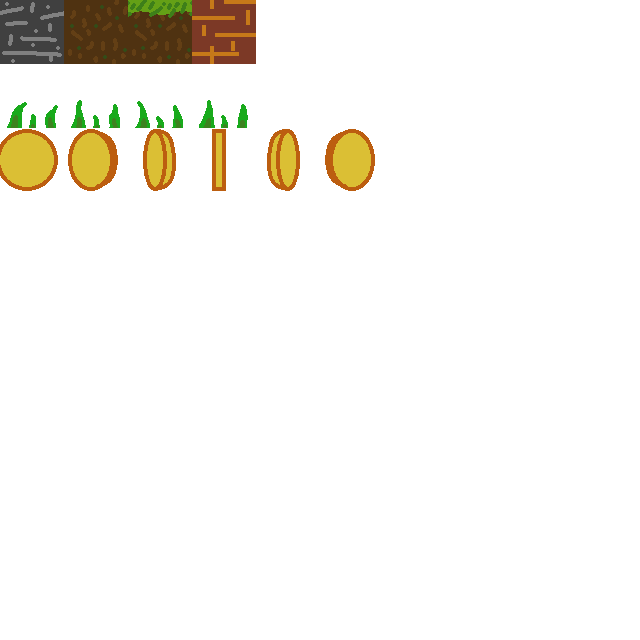
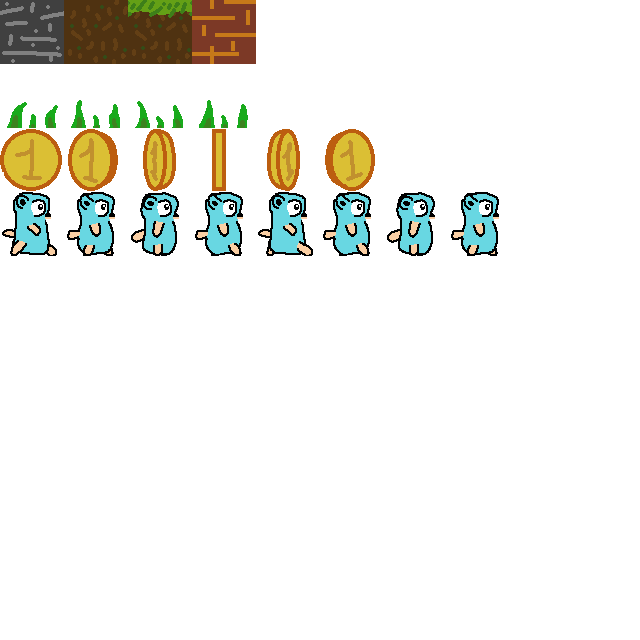
Some dynamics and controls

Changed region(s): [[0.0, 0.1875, 0.7812, 0.4062]]

diff --git a/graphic/window.go b/graphic/window.go
@@ -1,16 +1,16 @@
 package graphic
 
 import (
-	"fmt"
 	"gopherLand/game"
 	"image"
 	"log"
+	"math"
 
 	"github.com/hajimehoshi/ebiten/v2"
 	"github.com/hajimehoshi/ebiten/v2/ebitenutil"
 )
 
-type Controler struct {
+type Controller struct {
 	game      *game.Game
 	tick      uint64 // Ticks of the game
 	tickFrame uint8  // Increments each frame, go back to 0 each tick
@@ -19,9 +19,9 @@ type Controler struct {
 var backgroundImage *ebiten.Image
 var ressourcesImage *ebiten.Image
 
-func initControler() Controler {
+func initControler() Controller {
 	g := game.InitGame()
-	return Controler{&g, 0, 0}
+	return Controller{&g, 0, 0}
 }
 
 func init() {
@@ -36,34 +36,88 @@ func init() {
 	}
 }
 
-func (c *Controler) Update() error {
+func (c Controller) getModulo(elem game.Elem) int {
+	max := len(elem.Images)
+	modulo := 0
+	if max > 1 {
+		modulo = int(c.tick) % max
+	}
+	return modulo
+}
+
+func (c Controller) checkEmptyBlock(direction string) bool {
+	switch direction {
+	case "left":
+		x := int(c.game.Player.X)
+		y := int(math.Ceil(c.game.Player.Y))
+		if y > 0 {
+			return !c.game.AllElements[c.game.GameMap[x][y-1]].Solid
+		}
+	case "right":
+		x := int(c.game.Player.X)
+		y := int(c.game.Player.Y)
+		if y < game.MapSizeWidth {
+			return !c.game.AllElements[c.game.GameMap[x][y+1]].Solid
+		}
+	case "up":
+		x := int(math.Ceil(c.game.Player.X))
+		y := int(c.game.Player.Y)
+		if x > 0 {
+			return !c.game.AllElements[c.game.GameMap[x-1][y]].Solid
+		}
+	case "down":
+		x := int(c.game.Player.X)
+		y := int(c.game.Player.Y)
+		if x < game.MapSizeWidth {
+			return !c.game.AllElements[c.game.GameMap[x+1][y]].Solid
+		}
+	}
+	return false
+}
+
+func (c *Controller) Update() error {
+	// Tick management (each 12 frames = 200 ms)
 	if c.tickFrame == 12 {
 		c.tickFrame = 0
 		c.tick++
 	} else {
 		c.tickFrame++
 	}
+
+	// Control management
 	// x, y := ebiten.CursorPosition()
 	// fmt.Println(x, y)
-	if ebiten.IsKeyPressed(ebiten.KeyArrowRight) {
-		fmt.Println("Droite")
+	if ebiten.IsKeyPressed(ebiten.KeyArrowLeft) {
+		c.game.Player.Direction = 'l'
+		if c.checkEmptyBlock("left") {
+			c.game.Player.Y -= c.game.Player.Speed
+		}
 	}
+	if ebiten.IsKeyPressed(ebiten.KeyArrowRight) {
+		c.game.Player.Direction = 'r'
+		if c.checkEmptyBlock("right") {
+			c.game.Player.Y += c.game.Player.Speed
+		}
+	}
+
+	// Player gravity
+	if c.checkEmptyBlock("down") {
+		c.game.Player.X += 0.1
+	}
+
 	return nil
 }
 
-func (c *Controler) Draw(screen *ebiten.Image) {
+func (c *Controller) Draw(screen *ebiten.Image) {
 	screen.DrawImage(backgroundImage, nil)
 
+	// For each block (Elem)
 	for y := 0; y < len(c.game.GameMap); y++ {
 		for x := 0; x < len(c.game.GameMap[y]); x++ {
 
 			elem := c.game.AllElements[c.game.GameMap[x][y]]
 
-			max := len(elem.Images)
-			modulo := 0
-			if max > 1 {
-				modulo = int(c.tick) % max
-			}
+			modulo := c.getModulo(elem)
 
 			if len(elem.Images) > 0 {
 				op := &ebiten.DrawImageOptions{}
@@ -74,9 +128,23 @@ func (c *Controler) Draw(screen *ebiten.Image) {
 			}
 		}
 	}
+
+	// Player display
+	modulo := c.getModulo(c.game.AllElements['p'])
+
+	op := &ebiten.DrawImageOptions{}
+	if c.game.Player.Direction == 'l' {
+		// Mirroring image
+		op.GeoM.Scale(-1, 1)
+		op.GeoM.Translate(float64(c.game.Ss), 0)
+	}
+	op.GeoM.Translate(c.game.Player.Y*float64(c.game.Ss), c.game.Player.X*float64(c.game.Ss))
+	screen.DrawImage(ressourcesImage.SubImage(
+		image.Rect(c.game.AllElements['p'].Images[modulo].X1, c.game.AllElements['p'].Images[modulo].Y1,
+			c.game.AllElements['p'].Images[modulo].X2, c.game.AllElements['p'].Images[modulo].Y2)).(*ebiten.Image), op)
 }
 
-func (c *Controler) Layout(outsideWidth, outsideHeight int) (screenWidth, screenHeight int) {
+func (c *Controller) Layout(outsideWidth, outsideHeight int) (screenWidth, screenHeight int) {
 	return 1280, 720
 }
 

diff --git a/game/game.go b/game/game.go
@@ -6,10 +6,14 @@ import (
 	"strings"
 )
 
+var MapSizeWidth int = 21
+var MapSizeHeight int = 21
+
 type Elem struct {
-	Name   string // Name of element
-	Short  rune   // Short identifier for elems (to build maps)
-	Images []ImagePosition
+	Name   string          // Name of element
+	Short  rune            // Short identifier for elems (to build maps)
+	Solid  bool            // Solid can be walked over
+	Images []ImagePosition // List of images for displaying
 }
 
 type ImagePosition struct {
@@ -19,22 +23,31 @@ type ImagePosition struct {
 	Y2 int
 }
 
+type Player struct {
+	X         float64
+	Y         float64
+	Speed     float64
+	Direction rune // l or r
+}
+
 type Game struct {
 	Ss          int           // Size of square elements
 	width       int           // Number of blocks (width)
 	height      int           // Number of blocks (heigth)
 	AllElements map[rune]Elem // All elements
 	GameMap     [][]rune      // Game map
+	Player      Player
 }
 
 func InitGame() Game {
 	// Init game structure
 	game := Game{
 		64,
-		21,
-		21,
+		MapSizeWidth,
+		MapSizeHeight,
 		map[rune]Elem{},
 		[][]rune{},
+		Player{0.0, 0.0, 0.08, 'r'},
 	}
 	game.loadRessources()
 	game.createMap()
@@ -65,19 +78,19 @@ func (game *Game) createMap() {
 }
 
 func (game *Game) loadRessources() {
-	game.loadRessource("stone", 's', []ImagePosition{{0, 1, 0, 1}})
-	game.loadRessource("dirt", 'd', []ImagePosition{{1, 2, 0, 1}})
-	game.loadRessource("grass", 'g', []ImagePosition{{2, 3, 0, 1}})
-	game.loadRessource("brick", 'b', []ImagePosition{{3, 4, 0, 1}})
-
-	game.loadRessource("herb_1", 'h', []ImagePosition{{0, 1, 1, 2}, {1, 2, 1, 2},
+	game.loadRessource("stone", 's', true, []ImagePosition{{0, 1, 0, 1}})
+	game.loadRessource("dirt", 'd', true, []ImagePosition{{1, 2, 0, 1}})
+	game.loadRessource("grass", 'g', true, []ImagePosition{{2, 3, 0, 1}})
+	game.loadRessource("brick", 'b', true, []ImagePosition{{3, 4, 0, 1}})
+	game.loadRessource("herb_1", 'h', false, []ImagePosition{{0, 1, 1, 2}, {1, 2, 1, 2},
 		{2, 3, 1, 2}, {3, 4, 1, 2}})
-
-	game.loadRessource("coin_1", 'c', []ImagePosition{{0, 1, 2, 3}, {1, 2, 2, 3},
+	game.loadRessource("coin_1", 'c', false, []ImagePosition{{0, 1, 2, 3}, {1, 2, 2, 3},
 		{2, 3, 2, 3}, {3, 4, 2, 3}, {4, 5, 2, 3}, {5, 6, 2, 3}})
+	game.loadRessource("player", 'p', false, []ImagePosition{{0, 1, 3, 4}, {1, 2, 3, 4},
+		{2, 3, 3, 4}, {3, 4, 3, 4}, {4, 5, 3, 4}, {5, 6, 3, 4}, {5, 6, 3, 4}, {7, 8, 3, 4}})
 }
 
-func (game *Game) loadRessource(name string, short rune, images []ImagePosition) {
+func (game *Game) loadRessource(name string, short rune, solid bool, images []ImagePosition) {
 	ip := []ImagePosition{}
 
 	for _, v := range images {
@@ -92,6 +105,7 @@ func (game *Game) loadRessource(name string, short rune, images []ImagePosition)
 	game.AllElements[short] = Elem{
 		name,
 		short,
+		solid,
 		ip,
 	}
 }
